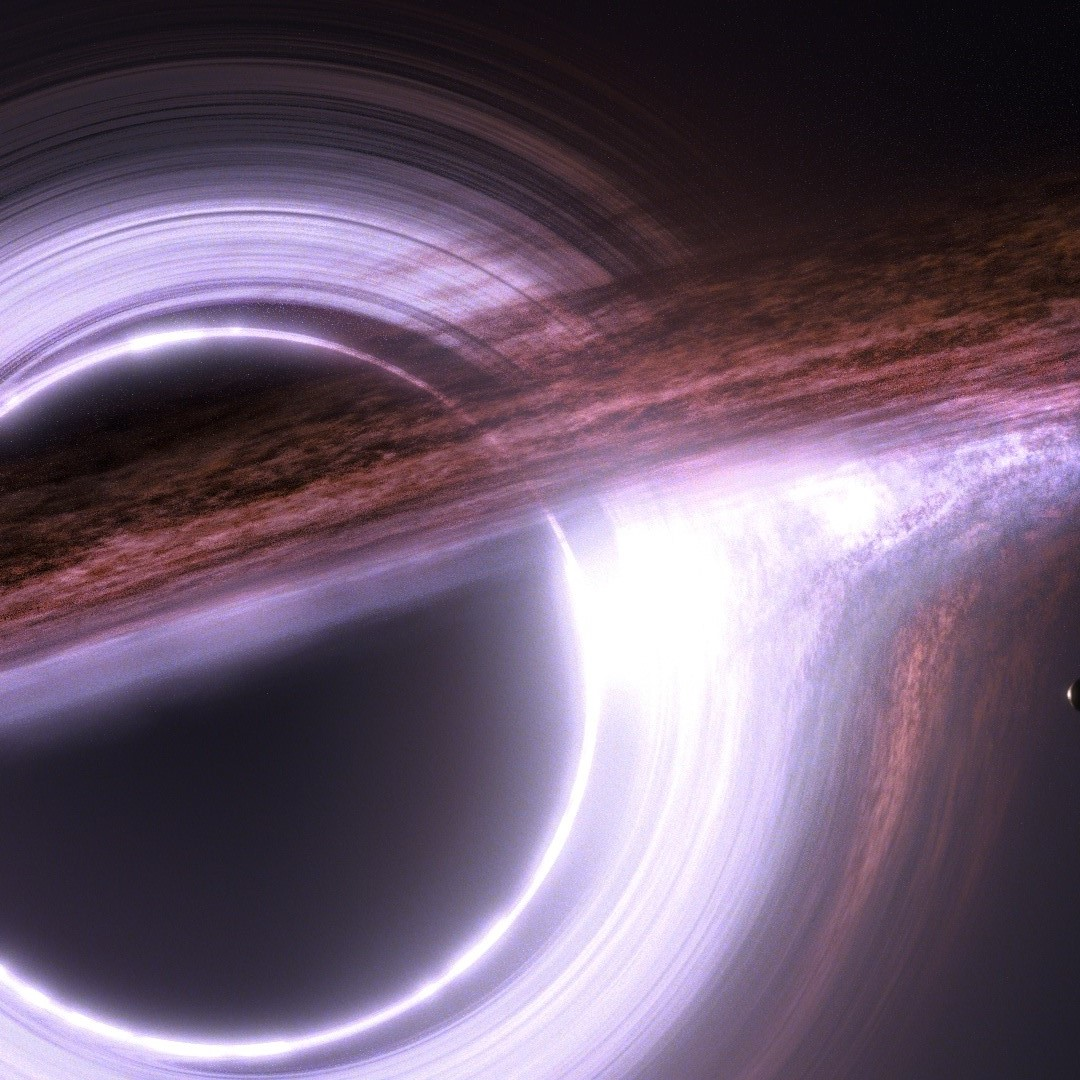
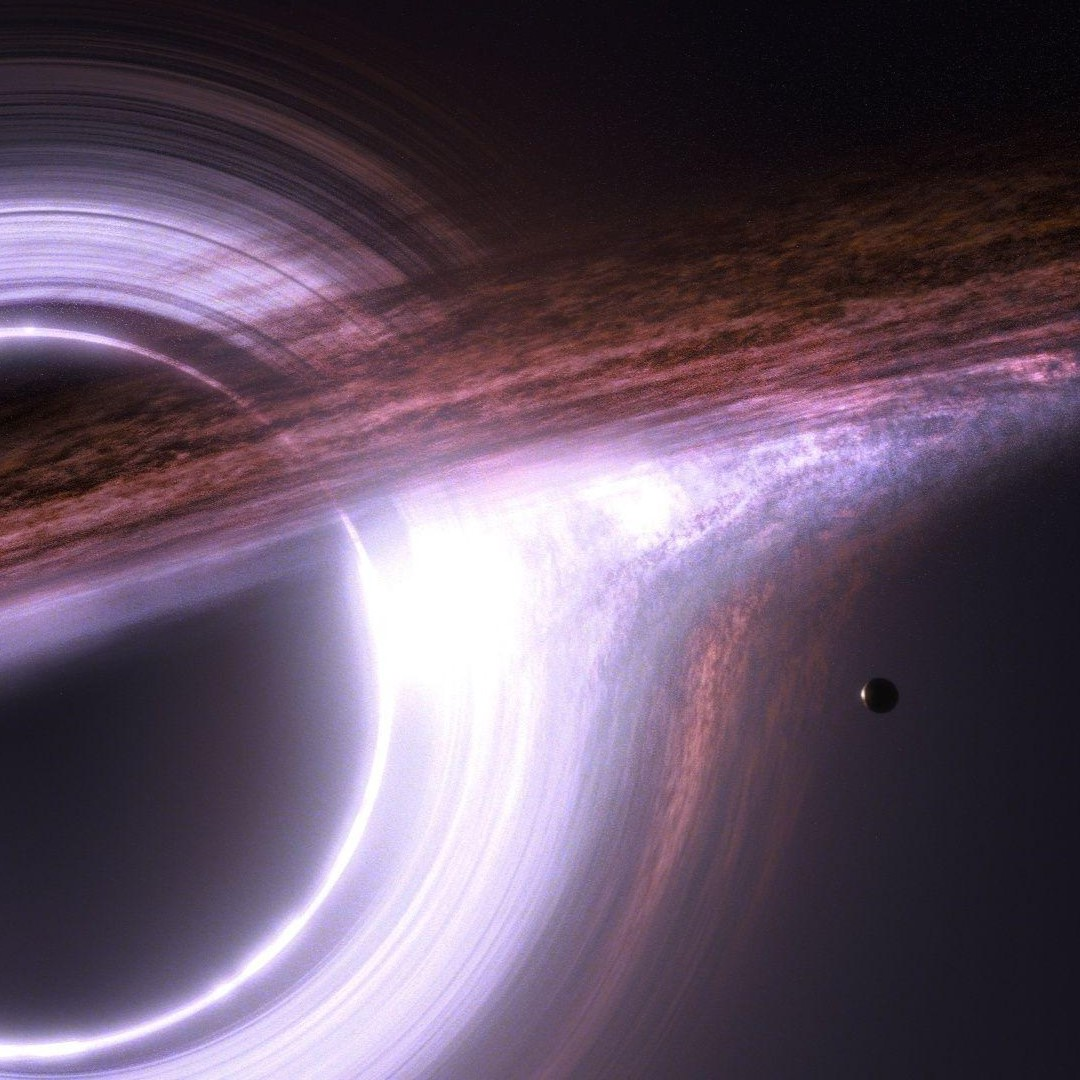
.

diff --git a/src/pages/NotFound.tsx b/src/pages/NotFound.tsx
@@ -244,14 +244,11 @@ function PixiScene({ transmitting, velocity, showStats }: PixiSceneProps) {
 
     container.addChild((sasaGraphics.current = new Graphics()));
 
-    if (background.current.entity === "Black Hole") {
-      container.scale.set(0.1);
-      container.x = app.screen.width / 4;
-      container.y = app.screen.height / 2;
-    } else {
-      container.x = -app.screen.width / 4;
-      container.y = app.screen.height / 2;
-    }
+    const isBlackHole = background.current.entity === "Black Hole";
+
+    container.scale.set(isBlackHole ? 0.01 : 1);
+    container.x = isBlackHole ? app.screen.width / 4 : -app.screen.width / 4;
+    container.y = app.screen.height / 2;
 
     const style = new TextStyle({
       fontFamily: "Monaco, monospace",
@@ -273,7 +270,7 @@ function PixiScene({ transmitting, velocity, showStats }: PixiSceneProps) {
     statsPad.current.text.position.set(10, 10);
     app.stage.addChild(statsPad.current.text);
 
-    let sasaAppeared = background.current.entity !== "Black Hole";
+    let sasaAppeared = !isBlackHole;
 
     app.ticker.add((delta) => {
       if (!sasaAppeared && container.scale.x < 1) {
